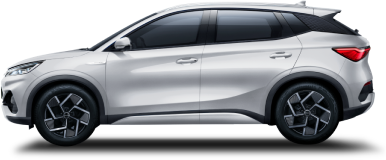
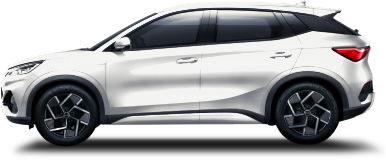
Selaraskan dengan situs resmi BYD Indonesia: warna Atto 3, varian, garansi & layanan, tautan brosur

diff --git a/index.html b/index.html
@@ -199,6 +199,16 @@ details .feats{margin:6px 20px 20px}
 }
 
 
+.ext{margin-top:14px;display:flex;flex-wrap:wrap;gap:6px 18px;font-size:13px}
+.ext a{color:var(--mut);text-decoration:underline;text-underline-offset:3px}.ext a:hover{color:var(--red2)}
+/* garansi */
+.gar{display:grid;grid-template-columns:repeat(auto-fit,minmax(min(100%,300px),1fr));gap:18px;margin-top:44px}
+.g{padding:28px;border-radius:20px;background:var(--card);border:1px solid var(--line);box-shadow:var(--sh)}
+.g b{display:block;font:700 clamp(28px,4vw,40px)/1 var(--head);color:var(--red2)}
+.g b small{display:block;margin:8px 0 0;font:600 14px var(--body);color:var(--fg)}
+.g h3{margin:14px 0 6px;font-size:17px}
+.g p{color:var(--mut);font-size:14.5px}
+.src{margin-top:22px;font-size:12.5px;color:var(--mut)}.src a{text-decoration:underline}
 /* faq */
 .faq{display:grid;gap:12px;margin-top:36px;max-width:860px}
 .faq details p{padding:16px 20px 20px;color:var(--mut);font-size:15px}
@@ -272,6 +282,7 @@ footer p+p{margin-top:8px;font-size:12px}
       <a href="#model">Model</a>
       <a href="#lineup">Semua Mobil</a>
       <a href="#why">Keunggulan</a>
+      <a href="#garansi">Garansi</a>
       <a href="#faq">FAQ</a>
       <a href="#kontak">Lokasi</a>
       <a class="btn btn-red" href="https://wa.me/6289611111183?text=Halo%20BYD%20Purwakarta%2C%20saya%20ingin%20test%20drive" target="_blank" rel="noopener">Test Drive</a>
@@ -350,11 +361,29 @@ footer p+p{margin-top:8px;font-size:12px}
     <span class="eyebrow rv">Teknologi BYD</span>
     <h2 class="rv">Kenapa memilih BYD</h2>
     <div class="why">
-      <article class="w rv"><div class="ic"><svg class="i" viewBox="0 0 24 24"><rect x="3" y="7" width="16" height="10" rx="2"/><path d="M21 11v2M9 10l-2 4h4l-2 4"/></svg></div><h3>Blade Battery</h3><p>Baterai LFP buatan sendiri yang dikenal aman, awet, dan efisien untuk pemakaian harian.</p></article>
+      <article class="w rv"><div class="ic"><svg class="i" viewBox="0 0 24 24"><rect x="3" y="7" width="16" height="10" rx="2"/><path d="M21 11v2M9 10l-2 4h4l-2 4"/></svg></div><h3>Blade Battery</h3><p>Baterai LFP buatan sendiri. Dalam uji tusuk paku, Blade Battery tidak mengeluarkan asap atau api (klaim BYD).</p></article>
       <article class="w rv" style="--d:.08s"><div class="ic"><svg class="i" viewBox="0 0 24 24"><path d="M13 2 4 14h7l-1 8 9-12h-7z"/></svg></div><h3>Performa Instan</h3><p>Torsi langsung terasa sejak pedal diinjak — hening, halus, dan responsif di setiap kecepatan.</p></article>
-      <article class="w rv" style="--d:.16s"><div class="ic"><svg class="i" viewBox="0 0 24 24"><path d="M12 3 4 6v6c0 5 3.5 8 8 9 4.5-1 8-4 8-9V6z"/><path d="m9 12 2 2 4-4"/></svg></div><h3>Aman &amp; Terjamin</h3><p>Dukungan garansi resmi serta layanan purna jual dari dealer BYD Purwakarta.</p></article>
+      <article class="w rv" style="--d:.16s"><div class="ic"><svg class="i" viewBox="0 0 24 24"><path d="M12 3 4 6v6c0 5 3.5 8 8 9 4.5-1 8-4 8-9V6z"/><path d="m9 12 2 2 4-4"/></svg></div><h3>Aman &amp; Terjamin</h3><p>Garansi baterai 8 tahun / 160.000 km, plus layanan purna jual dari dealer BYD Purwakarta.</p></article>
       <article class="w rv" style="--d:.24s"><div class="ic"><svg class="i" viewBox="0 0 24 24"><rect x="3" y="4" width="18" height="12" rx="2"/><path d="M8 20h8M12 16v4"/></svg></div><h3>Kabin Pintar</h3><p>Layar infotainment besar, konektivitas modern, dan fitur kenyamanan lengkap di tiap varian.</p></article>
     </div>
+  </div>
+</section>
+
+<!-- GARANSI -->
+<section id="garansi" class="lineup">
+  <div class="wrap">
+    <span class="eyebrow rv">Garansi &amp; Layanan</span>
+    <h2 class="rv">Tenang di setiap kilometer</h2>
+    <p class="lead rv">Perlindungan resmi dari BYD Indonesia untuk kendaraan, baterai, dan penggerak Anda.</p>
+    <div class="gar">
+      <article class="g rv"><b>6<small>tahun / 150.000 km</small></b><h3>Garansi Kendaraan</h3><p>Berlaku untuk semua tipe BYD.</p></article>
+      <article class="g rv" style="--d:.08s"><b>8<small>tahun / 160.000 km</small></b><h3>Garansi Baterai Traksi</h3><p>Atau SOH baterai ≥ 70%, mana yang tercapai lebih dulu.</p></article>
+      <article class="g rv" style="--d:.16s"><b>8<small>tahun / 160.000 km</small></b><h3>Garansi Drive Unit</h3><p>Untuk drive unit orisinal BYD.</p></article>
+      <article class="g rv" style="--d:.24s"><b>4<small>tahun / 60.000 km</small></b><h3>Free Maintenance</h3><p>Tidak berlaku untuk Atto 1 dan M6.</p></article>
+      <article class="g rv" style="--d:.32s"><b>24/7<small>Roadside Assistance</small></b><h3>Bantuan Darurat</h3><p>Derek ke dealer terdekat dalam radius 50 km. Hubungi 0800 168 6868 (bebas pulsa).</p></article>
+      <article class="g rv" style="--d:.4s"><b>1<small>tahun / 20.000 km</small></b><h3>Servis Berkala</h3><p>Pemeriksaan rutin sejak serah terima; perawatan pertama bulan ke-3 / 5.000 km untuk model tertentu.</p></article>
+    </div>
+    <p class="src rv">Sumber: <a href="https://www.byd.com/id/aftersales/warranty" target="_blank" rel="noopener">byd.com/id/aftersales/warranty</a>. Syarat: memakai suku cadang asli dan servis berkala di bengkel resmi BYD; kerusakan akibat kecelakaan, modifikasi, atau charger tidak resmi tidak dicakup. Rujuk Buku Garansi untuk ketentuan lengkap.</p>
   </div>
 </section>
 
@@ -364,7 +393,7 @@ footer p+p{margin-top:8px;font-size:12px}
     <span class="eyebrow rv">FAQ</span>
     <h2 class="rv">Pertanyaan yang sering diajukan</h2>
     <p class="lead rv">Ragu beralih dari mobil bensin ke mobil listrik? Ini jawaban atas keraguan yang paling sering kami dengar.</p>
-    <div class="faq"><details class="rv"><summary>Apakah mobil listrik benar-benar hemat dibanding mobil bensin?<svg class="i" viewBox="0 0 24 24"><path d="m6 9 6 6 6-6"/></svg></summary><p>Biaya energinya jauh lebih rendah per kilometer. Contoh perkiraan: mengisi penuh baterai 60 kWh di rumah dengan tarif listrik ± Rp1.500–1.700/kWh sekitar Rp90–100 ribuan untuk jarak tempuh ratusan kilometer. Perawatan juga lebih sederhana karena tidak ada oli mesin, busi, atau kopling. Angka riil tergantung tarif listrik, gaya berkendara, dan tempat mengisi daya.</p></details><details class="rv"><summary>Bagaimana kalau baterai habis di tengah jalan?<svg class="i" viewBox="0 0 24 24"><path d="m6 9 6 6 6-6"/></svg></summary><p>Mobil memberi peringatan bertahap saat baterai menipis dan menampilkan stasiun pengisian terdekat. Pada perjalanan jauh, rencanakan titik isi daya di rute (mis. SPKLU di jalur tol Trans Jawa dan Cipularang) lewat aplikasi PLN Mobile atau peta. Dengan jarak tempuh 300–650 km (NEDC) per model, pemakaian harian di Purwakarta dan sekitarnya umumnya cukup dengan isi daya di rumah.</p></details><details class="rv"><summary>Saya tidak punya garasi/colokan di rumah. Apakah tetap bisa?<svg class="i" viewBox="0 0 24 24"><path d="m6 9 6 6 6-6"/></svg></summary><p>Bisa, selama ada akses ke SPKLU di dekat rumah atau kantor. Pengisian di rumah tetap paling praktis: pasang wallbox atau gunakan kabel pengisi bawaan di stopkontak yang sesuai. Sales kami dapat membantu menjelaskan kebutuhan instalasi dan daya listrik sebelum Anda memutuskan.</p></details><details class="rv"><summary>Berapa lama waktu pengisian daya?<svg class="i" viewBox="0 0 24 24"><path d="m6 9 6 6 6-6"/></svg></summary><p>Pengisian AC di rumah memakan beberapa jam, cocok dilakukan semalaman. Pengisian cepat DC di SPKLU jauh lebih singkat; misalnya Seal diklaim mengisi 30–80% dalam ± 26 menit pada charger 150 kW. Waktu aktual tergantung daya charger, kapasitas baterai, dan suhu.</p></details><details class="rv"><summary>Seberapa awet dan aman baterainya?<svg class="i" viewBox="0 0 24 24"><path d="m6 9 6 6 6-6"/></svg></summary><p>BYD memakai Blade Battery berteknologi lithium iron phosphate (LFP) yang dikenal stabil dan tahan panas. Ketahanan dan cakupan garansi baterai berbeda tiap model dan dapat diperbarui; tanyakan syarat garansi resmi terbaru ke sales BYD Purwakarta.</p></details><details class="rv"><summary>Apakah mobil listrik aman saat banjir atau hujan deras?<svg class="i" viewBox="0 0 24 24"><path d="m6 9 6 6 6-6"/></svg></summary><p>Mobil listrik dirancang tahan air untuk pemakaian hujan dan cuci mobil normal. Meski begitu, hindari menerjang banjir yang dalam, sama seperti mobil bensin. Detail ketahanan air tiap model bisa Anda tanyakan saat test drive.</p></details><details class="rv"><summary>Bagaimana perawatan dan servisnya? Apakah bengkelnya mudah?<svg class="i" viewBox="0 0 24 24"><path d="m6 9 6 6 6-6"/></svg></summary><p>Servis berkala mobil listrik lebih sedikit komponen yang diganti dibanding mesin bensin, terutama tanpa oli mesin. Perawatan dilakukan di jaringan dealer resmi BYD. Hubungi tim kami untuk jadwal dan estimasi biaya servis berkala.</p></details><details class="rv"><summary>Berapa jarak tempuh sebenarnya? Apakah sesuai angka brosur?<svg class="i" viewBox="0 0 24 24"><path d="m6 9 6 6 6-6"/></svg></summary><p>Angka brosur memakai standar NEDC yang dilakukan dalam kondisi ideal. Di jalan nyata jarak biasanya lebih pendek dan dipengaruhi kecepatan, AC, beban, dan kontur jalan. Gunakan angka brosur sebagai pembanding antarmodel, dan coba langsung rute harian Anda saat test drive.</p></details><details class="rv"><summary>Kalau pindah dari mobil bensin, apakah ada yang berbeda saat berkendara?<svg class="i" viewBox="0 0 24 24"><path d="m6 9 6 6 6-6"/></svg></summary><p>Akselerasi lebih halus dan responsif, kabin jauh lebih senyap, dan tidak ada perpindahan gigi. Banyak pengemudi juga memakai pengereman regeneratif yang mengurangi pemakaian rem. Kebanyakan orang beradaptasi dalam beberapa hari; test drive adalah cara terbaik untuk merasakannya.</p></details><details class="rv"><summary>Apakah ada insentif atau keringanan pajak untuk mobil listrik?<svg class="i" viewBox="0 0 24 24"><path d="m6 9 6 6 6-6"/></svg></summary><p>Pemerintah pernah dan dapat memberikan insentif untuk kendaraan listrik, seperti keringanan pajak. Kebijakan ini berubah-ubah, jadi kami tidak mencantumkan angka di sini. Hubungi sales untuk info insentif dan harga yang berlaku saat ini.</p></details><details class="rv"><summary>Bagaimana dengan harga jual kembali (resale)?<svg class="i" viewBox="0 0 24 24"><path d="m6 9 6 6 6-6"/></svg></summary><p>Pasar mobil listrik bekas masih berkembang sehingga nilai jual kembali sulit dipastikan dan bergantung pada kondisi baterai, model, dan permintaan. Kami menyarankan membeli sesuai kebutuhan jangka panjang, dan menanyakan program yang tersedia ke sales.</p></details><details class="rv"><summary>Apakah bisa tukar tambah mobil bensin saya? Bisa kredit?<svg class="i" viewBox="0 0 24 24"><path d="m6 9 6 6 6-6"/></svg></summary><p>Silakan tanyakan program tukar tambah, simulasi cicilan, dan leasing langsung ke tim sales BYD Purwakarta lewat WhatsApp. Ketentuan dan promo dapat berubah sewaktu-waktu.</p></details></div>
+    <div class="faq"><details class="rv"><summary>Apakah mobil listrik benar-benar hemat dibanding mobil bensin?<svg class="i" viewBox="0 0 24 24"><path d="m6 9 6 6 6-6"/></svg></summary><p>Biaya energinya jauh lebih rendah per kilometer. Contoh perkiraan: mengisi penuh baterai 60 kWh di rumah dengan tarif listrik ± Rp1.500–1.700/kWh sekitar Rp90–100 ribuan untuk jarak tempuh ratusan kilometer. Perawatan juga lebih sederhana karena tidak ada oli mesin, busi, atau kopling. Angka riil tergantung tarif listrik, gaya berkendara, dan tempat mengisi daya.</p></details><details class="rv"><summary>Bagaimana kalau baterai habis di tengah jalan?<svg class="i" viewBox="0 0 24 24"><path d="m6 9 6 6 6-6"/></svg></summary><p>Mobil memberi peringatan bertahap saat baterai menipis dan menampilkan stasiun pengisian terdekat. Pada perjalanan jauh, rencanakan titik isi daya di rute (mis. SPKLU di jalur tol Trans Jawa dan Cipularang) lewat aplikasi PLN Mobile atau peta. Jika benar-benar kehabisan daya, BYD menyediakan Roadside Assistance 24/7 untuk menderek mobil ke dealer terdekat (radius 50 km dari dealer, 0800 168 6868). Dengan jarak tempuh 300–650 km (NEDC) per model, pemakaian harian di Purwakarta dan sekitarnya umumnya cukup dengan isi daya di rumah.</p></details><details class="rv"><summary>Saya tidak punya garasi/colokan di rumah. Apakah tetap bisa?<svg class="i" viewBox="0 0 24 24"><path d="m6 9 6 6 6-6"/></svg></summary><p>Bisa, selama ada akses ke SPKLU di dekat rumah atau kantor. Pengisian di rumah tetap paling praktis: pasang wallbox atau gunakan kabel pengisi bawaan di stopkontak yang sesuai. Sales kami dapat membantu menjelaskan kebutuhan instalasi dan daya listrik sebelum Anda memutuskan.</p></details><details class="rv"><summary>Berapa lama waktu pengisian daya?<svg class="i" viewBox="0 0 24 24"><path d="m6 9 6 6 6-6"/></svg></summary><p>Pengisian AC di rumah memakan beberapa jam, cocok dilakukan semalaman. Pengisian cepat DC di SPKLU jauh lebih singkat; misalnya Seal diklaim mengisi 30–80% dalam ± 26 menit pada charger 150 kW. Waktu aktual tergantung daya charger, kapasitas baterai, dan suhu.</p></details><details class="rv"><summary>Seberapa awet dan aman baterainya?<svg class="i" viewBox="0 0 24 24"><path d="m6 9 6 6 6-6"/></svg></summary><p>BYD memakai Blade Battery berteknologi lithium iron phosphate (LFP) yang dikenal stabil dan tahan panas. Dalam uji tusuk paku, Blade Battery tidak mengeluarkan asap atau api (klaim BYD). Semua tipe BYD mendapat garansi baterai traksi 8 tahun atau 160.000 km (mana yang tercapai lebih dulu) atau SOH ≥ 70%. Syarat lengkap ada di Buku Garansi; tanyakan ke sales untuk detailnya.</p></details><details class="rv"><summary>Apakah mobil listrik aman saat banjir atau hujan deras?<svg class="i" viewBox="0 0 24 24"><path d="m6 9 6 6 6-6"/></svg></summary><p>Mobil listrik dirancang tahan air untuk pemakaian hujan dan cuci mobil normal. Meski begitu, hindari menerjang banjir yang dalam, sama seperti mobil bensin. Detail ketahanan air tiap model bisa Anda tanyakan saat test drive.</p></details><details class="rv"><summary>Bagaimana perawatan dan servisnya? Apakah bengkelnya mudah?<svg class="i" viewBox="0 0 24 24"><path d="m6 9 6 6 6-6"/></svg></summary><p>Servis berkala mobil listrik lebih sedikit komponen yang diganti dibanding mesin bensin, terutama tanpa oli mesin. Servis berkala dilakukan setiap 1 tahun atau 20.000 km di dealer resmi BYD, dan sebagian model mendapat Free Maintenance 4 tahun / 60.000 km (tidak berlaku untuk Atto 1 dan M6). Hubungi tim kami untuk jadwal dan estimasi biaya.</p></details><details class="rv"><summary>Berapa jarak tempuh sebenarnya? Apakah sesuai angka brosur?<svg class="i" viewBox="0 0 24 24"><path d="m6 9 6 6 6-6"/></svg></summary><p>Angka brosur memakai standar NEDC yang dilakukan dalam kondisi ideal. Di jalan nyata jarak biasanya lebih pendek dan dipengaruhi kecepatan, AC, beban, dan kontur jalan. Gunakan angka brosur sebagai pembanding antarmodel, dan coba langsung rute harian Anda saat test drive.</p></details><details class="rv"><summary>Kalau pindah dari mobil bensin, apakah ada yang berbeda saat berkendara?<svg class="i" viewBox="0 0 24 24"><path d="m6 9 6 6 6-6"/></svg></summary><p>Akselerasi lebih halus dan responsif, kabin jauh lebih senyap, dan tidak ada perpindahan gigi. Banyak pengemudi juga memakai pengereman regeneratif yang mengurangi pemakaian rem. Kebanyakan orang beradaptasi dalam beberapa hari; test drive adalah cara terbaik untuk merasakannya.</p></details><details class="rv"><summary>Apakah ada insentif atau keringanan pajak untuk mobil listrik?<svg class="i" viewBox="0 0 24 24"><path d="m6 9 6 6 6-6"/></svg></summary><p>Pemerintah pernah dan dapat memberikan insentif untuk kendaraan listrik, seperti keringanan pajak. Kebijakan ini berubah-ubah, jadi kami tidak mencantumkan angka di sini. Hubungi sales untuk info insentif dan harga yang berlaku saat ini.</p></details><details class="rv"><summary>Bagaimana dengan harga jual kembali (resale)?<svg class="i" viewBox="0 0 24 24"><path d="m6 9 6 6 6-6"/></svg></summary><p>Pasar mobil listrik bekas masih berkembang sehingga nilai jual kembali sulit dipastikan dan bergantung pada kondisi baterai, model, dan permintaan. Kami menyarankan membeli sesuai kebutuhan jangka panjang, dan menanyakan program yang tersedia ke sales.</p></details><details class="rv"><summary>Apakah bisa tukar tambah mobil bensin saya? Bisa kredit?<svg class="i" viewBox="0 0 24 24"><path d="m6 9 6 6 6-6"/></svg></summary><p>Silakan tanyakan program tukar tambah, simulasi cicilan, dan leasing langsung ke tim sales BYD Purwakarta lewat WhatsApp. Ketentuan dan promo dapat berubah sewaktu-waktu.</p></details></div>
     <div class="cta rv" style="margin-top:32px"><a class="btn btn-red" href="https://wa.me/6289611111183?text=Halo%20BYD%20Purwakarta%2C%20saya%20ingin%20bertanya" target="_blank" rel="noopener">Masih ada pertanyaan? Chat Sales</a></div>
   </div>
 </section>
@@ -484,13 +513,14 @@ function render(anim){
   if(v.nm)sp.push(['Torsi',v.nm,'Nm',v.nm/700]);
   if(v.acc)sp.push(['0–100 km/j',String(v.acc).replace('.',','),'detik',1-(v.acc-3)/10]);
   sp.push(['Kapasitas',seat,'penumpang',seat/7]);
-  if(!v.bat)sp.unshift(['Penggerak','Plug-in Hybrid','DM-i',.8]);
+  if(!v.bat)sp.unshift(['Penggerak','Plug-in Hybrid','DM',.8]);
   $('#info').innerHTML=`<div class="${anim?'pop':''}">
     <h3>${cur.n}</h3><p class="tag">${cur.tag}</p>
     ${cur.v.length>1?`<div class="vars" role="group" aria-label="Varian">${cur.v.map((x,i)=>`<button class="var" aria-pressed="${i===vi}" data-i="${i}">${x.n}</button>`).join('')}</div>`:''}
     <div class="price"><small>Harga OTR${v.p?' mulai':''}</small><b>${rp(v.p)}</b></div>
     <div class="specs">${sp.map(s=>`<div class="sp"><small>${s[0]}</small><b>${s[1]}<i>${s[2]}</i></b><div class="bar"><span data-w="${Math.max(.08,Math.min(1,s[3]))*100}"></span></div></div>`).join('')}</div>
-    <a class="btn btn-red" target="_blank" rel="noopener" href="${wa(`Halo BYD Purwakarta, saya tertarik BYD ${cur.n} varian ${v.n}. Mohon info penawaran & test drive.`)}">Tanya BYD ${cur.n}</a></div>`;
+    <a class="btn btn-red" target="_blank" rel="noopener" href="${wa(`Halo BYD Purwakarta, saya tertarik BYD ${cur.n} varian ${v.n}. Mohon info penawaran & test drive.`)}">Tanya BYD ${cur.n}</a>
+    <p class="ext"><a href="https://www.byd.com/id/car/${cur.page}" target="_blank" rel="noopener">Halaman resmi BYD ↗</a>${cur.pdf?` <a href="https://www.byd.com/material/byd-site/id/${cur.pdf}" target="_blank" rel="noopener">Brosur resmi (PDF) ↗</a>`:''}</p></div>`;
   requestAnimationFrame(()=>requestAnimationFrame(()=>document.querySelectorAll('.bar span').forEach(e=>e.style.width=e.dataset.w+'%')));
 }
 function fullSpecs(){

diff --git a/models.js b/models.js
@@ -2,16 +2,16 @@
 // Sumber spesifikasi: brosur resmi BYD Indonesia (Seal, Sealion 7), halaman produk byd.com/id, dan media otomotif.
 // Baris yang tidak ada datanya sengaja dikosongkan; kelengkapan fitur dapat berbeda per varian.
 const M = [
- {id:'atto1',n:'Atto 1',type:'Hatchback',img:'atto1.jpg',seat:4,tag:'City car listrik lincah dengan layar putar dan harga paling terjangkau.',
+ {id:'atto1',page:'atto1',n:'Atto 1',type:'Hatchback',img:'atto1.jpg',seat:4,tag:'City car listrik lincah dengan layar putar dan harga paling terjangkau.',
   v:[{n:'Standard',p:199,bat:30.08,r:300,kw:55,nm:135},{n:'Dynamic',p:210,bat:30.08,r:300,kw:55,nm:135},{n:'Premium',p:245,bat:38.88,r:380,kw:55,nm:135}],
   g:[
    {t:'Performa & Baterai',rows:[['Penggerak','Roda depan (FWD)'],['Motor','Permanent Magnet Synchronous Motor (PMSM)'],['Daya maksimum','± 55 kW'],['Torsi maksimum','135 Nm'],['Akselerasi 0–50 km/j','4,9 detik'],['Baterai','BYD Blade Battery (LFP)'],['Kapasitas baterai',['30,08 kWh','30,08 kWh','38,88 kWh']],['Jarak tempuh (NEDC)',['300 km','300 km','380 km']],['Pengisian DC cepat',['–','30 kW','40 kW']],['Vehicle-to-Load (V2L)','Hingga 2,2 kW']]},
    {t:'Dimensi & Kapasitas',rows:[['Panjang × Lebar × Tinggi','3.925 × 1.720 × 1.590 mm'],['Wheelbase','2.500 mm'],['Ground clearance','155 mm'],['Bagasi','230 L (930 L jok dilipat)'],['Kapasitas penumpang','4 orang']]},
-   {t:'Eksterior',rows:[['Velg',['15" (kaleng)','16" alloy','16" alloy']],['Lampu depan','LED']],chips:['Spoiler belakang','Lampu belakang LED','Desain sporty']},
-   {t:'Interior & Kenyamanan',rows:[['Layar infotainment','10,1" putar'],['Panel instrumen',['–','–','Digital 7" (Premium)']],['Wireless charger','Ya']],chips:['Konsol dengan AC vent','Kabin kompak & lega']},
-   {t:'Keselamatan',rows:[],chips:['Blade Battery aman','Konstruksi bodi kokoh']}
+   {t:'Eksterior',rows:[['Velg',['15" (kaleng)','16" alloy','16" alloy']],['Lampu depan','LED "Double Slash" + automatic headlamp'],['Lampu rem tinggi','LED High Mounted Brake Light']],chips:['Spoiler belakang','Desain Ocean Aesthetics','Siluet belakang tegas']},
+   {t:'Interior & Kenyamanan',rows:[['Layar infotainment','10,1" putar'],['Panel instrumen',['–','–','Digital 7" (Premium)']],['Wireless charger','Ya (varian tertentu)'],['Konektivitas','Apple CarPlay & Android Auto'],['Jok','Kulit sintetis']],chips:['Konsol dengan AC vent','Kabin kompak & lega']},
+   {t:'Keselamatan',rows:[['Airbag',['Hubungi sales','4 airbag','6 airbag']]],chips:['Blade Battery aman','Struktur bodi e-Platform 3.0']}
   ]},
- {id:'dolphin',n:'Dolphin',type:'Hatchback',img:'dolphin.jpg',seat:5,tag:'Hatchback listrik serbaguna: desain muda, kabin lega, jarak tempuh nyaman.',
+ {id:'dolphin',page:'dolphin',pdf:'brochure/DOLPHIN-BROCHURE.pdf',n:'Dolphin',type:'Hatchback',img:'dolphin.jpg',seat:5,tag:'Hatchback listrik serbaguna: desain muda, kabin lega, jarak tempuh nyaman.',
   v:[{n:'Dynamic',p:369,bat:44.9,r:410,kw:70,nm:180,acc:12.3},{n:'Premium',p:429,bat:60.48,r:490,kw:150,nm:310,acc:7}],
   g:[
    {t:'Performa & Baterai',rows:[['Penggerak','Roda depan (FWD)'],['Motor','Permanent Magnet Synchronous Motor (PMSM)'],['Daya maksimum',['70 kW','150 kW (± 204 PS)']],['Torsi maksimum',['180 Nm','310 Nm']],['Akselerasi 0–100 km/j',['12,3 detik','± 7,0 detik']],['Baterai','BYD Blade Battery (LFP)'],['Kapasitas baterai',['44,9 kWh','60,48 kWh']],['Jarak tempuh (NEDC)',['410 km','490 km']]]},
@@ -20,43 +20,43 @@ const M = [
    {t:'Interior & Kenyamanan',rows:[['Layar infotainment','12,8" putar'],['Material kabin','Perpaduan jok & trim dua warna']],chips:['Armrest tengah','Kabin lega 5 penumpang','V2L']},
    {t:'Teknologi',rows:[['Platform','e-Platform 3.0'],['Baterai','Blade Battery – aman & awet']]}
   ]},
- {id:'atto3',n:'Atto 3',type:'SUV',img:'atto3.jpg',seat:5,tag:'SUV kompak listrik dengan kabin bergaya sporty dan kenyamanan sehari-hari.',
-  v:[{n:'Advanced',p:390,bat:49.92,r:410},{n:'Advanced Plus',p:415,bat:60.48,r:480,kw:150,nm:310,acc:7.3}],
+ {id:'atto3',page:'atto3',pdf:'brochure/ATTO3-BROCHURE.pdf',n:'Atto 3',type:'SUV',img:'atto3.jpg',seat:5,tag:'SUV kompak listrik dengan kabin bergaya sporty dan kenyamanan sehari-hari.',
+  v:[{n:'Advanced STD',p:390,bat:49.92,r:410},{n:'Superior',p:415,bat:60.48,r:480,kw:150,nm:310,acc:7.3}],
   g:[
-   {t:'Performa & Baterai',rows:[['Penggerak','Roda depan (FWD)'],['Daya maksimum',['Hubungi sales','150 kW (± 201 PS)']],['Torsi maksimum',['Hubungi sales','310 Nm']],['Akselerasi 0–100 km/j',['Hubungi sales','7,3 detik']],['Baterai','BYD Blade Battery (LFP)'],['Kapasitas baterai',['49,92 kWh','60,48 kWh']],['Jarak tempuh (NEDC)',['410 km','480 km']],['V2L / mobile power','Ya (VTOL)']]},
+   {t:'Performa & Baterai',rows:[['Penggerak','Roda depan (FWD)'],['Daya maksimum',['Hubungi sales','150 kW (± 201 PS)']],['Torsi maksimum',['Hubungi sales','310 Nm']],['Akselerasi 0–100 km/j',['Hubungi sales','7,3 detik']],['Baterai','BYD Blade Battery (LFP)'],['Kapasitas baterai',['49,92 kWh','60,48 kWh']],['Jarak tempuh (NEDC)',['410 km','480 km']],['V2L / mobile power','Ya (VTOL), hingga 3,3 kW']]},
    {t:'Dimensi & Kapasitas',rows:[['Panjang × Lebar × Tinggi','4.455 × 1.875 × 1.615 mm'],['Wheelbase','2.720 mm'],['Ground clearance','175 mm'],['Bagasi','± 440 L'],['Kapasitas penumpang','5 orang']]},
-   {t:'Eksterior',rows:[['Ukuran ban / velg',['R17','R18']]],chips:['Lampu depan LED','Panoramic roof','Desain sporty']},
-   {t:'Interior & Kenyamanan',rows:[['Layar infotainment','12,8" putar'],['Jok','Sport, kombinasi aksen biru'],['Wireless charger','Ya']],chips:['Speaker dengan desain unik','Kabin lega']},
-   {t:'Keselamatan',rows:[['Airbag','Advanced: 6 airbag · varian atas lebih lengkap']],chips:['Blade Battery','ADAS']}
+   {t:'Eksterior',rows:[['Ukuran ban / velg',['R17','R18']],['Lampu depan','LED kombinasi Crystal Dragon Feather'],['Atap','Panoramic double layer anti-pinch (Superior)']],chips:['Pegangan pintu gaya cengkeraman (Superior)','Desain Dragon Face','Dirancang tim Wolfgang Egger']},
+   {t:'Interior & Kenyamanan',rows:[['Layar infotainment','12,8" putar'],['Jok','Sport, kombinasi aksen biru'],['Wireless charger','Ya (Superior)']],chips:['Trim pintu bertema "gitar" (Superior)','Kabin lega','Bagasi 440 L + ruang tersembunyi']},
+   {t:'Keselamatan',rows:[['Airbag',['6 airbag','7 airbag']]],chips:['Blade Battery','ADAS']}
   ]},
- {id:'m6',n:'M6',type:'MPV',img:'m6.jpg',seat:7,tag:'MPV listrik keluarga: lapang, senyap, pilihan 7 atau 6 penumpang.',
+ {id:'m6',page:'m6',n:'M6',type:'MPV',img:'m6.jpg',seat:7,tag:'MPV listrik keluarga: lapang, senyap, pilihan 7 atau 6 penumpang.',
   v:[{n:'Standard',p:395,bat:55.4,r:420,kw:150,nm:310},{n:'Superior',p:423,bat:71.8,r:530,kw:150,nm:310},{n:'Superior Captain',p:445,bat:71.8,r:530,kw:150,nm:310,seat:6}],
   g:[
-   {t:'Performa & Baterai',rows:[['Penggerak','Roda depan (FWD)'],['Daya maksimum','± 150 kW (204 PS)'],['Torsi maksimum','310 Nm'],['Baterai','BYD Blade Battery (LFP)'],['Kapasitas baterai',['55,4 kWh','71,8 kWh','71,8 kWh']],['Jarak tempuh (NEDC)',['420 km','530 km','530 km']],['Pengisian AC','± 7 kW (7–8 jam)'],['Pengisian DC','± 30 menit (data sumber media)']]},
+   {t:'Performa & Baterai',rows:[['Penggerak','Roda depan (FWD)'],['Daya maksimum','± 150 kW (204 PS) – data media'],['Torsi maksimum','310 Nm'],['Baterai','BYD Blade Battery (LFP)'],['Kapasitas baterai',['55,4 kWh','71,8 kWh','71,8 kWh']],['Jarak tempuh (NEDC)',['420 km','530 km','530 km']],['Pengisian AC','± 7 kW (7–8 jam)'],['Pengisian DC puncak',['89 kW','115 kW','115 kW']],['Waktu isi 30→80%','± 30 menit']]},
    {t:'Dimensi & Kapasitas',rows:[['Panjang × Lebar × Tinggi','4.710 × 1.810 × 1.690 mm'],['Wheelbase','2.800 mm'],['Ground clearance','170 mm'],['Kapasitas penumpang',['7 orang','7 orang','6 orang (captain seat)']]]},
    {t:'Eksterior',rows:[['Lampu','LED']],chips:['Pilihan 4 warna','Velg alloy','Pintu bagasi lebar']},
    {t:'Interior & Kenyamanan',rows:[['Layar infotainment','12,8" putar'],['Interior','Hitam–cokelat']],chips:['Panoramic sunroof','Kabin keluarga lapang','Jok baris kedua nyaman','Banyak ruang penyimpanan']},
    {t:'Teknologi',rows:[['Baterai','Blade Battery – aman & awet']]}
   ]},
- {id:'m6dm',n:'M6 DM-i',type:'MPV',img:'m6dm.jpg',seat:7,tag:'MPV plug-in hybrid DM-i: bisa jalan listrik harian, tanpa cemas jarak jauh.',
-  v:[{n:'DM-i (mulai)',p:298}],
+ {id:'m6dm',page:'m6-dm',n:'M6 DM',type:'MPV',img:'m6dm.jpg',seat:7,tag:'MPV plug-in hybrid DM: bensin bisa, listrik bisa. Ikon baru keluarga Indonesia.',
+  v:[{n:'DM (mulai)',p:298}],
   g:[
-   {t:'Performa & Penggerak',rows:[['Teknologi','Plug-in Hybrid DM-i (Dual Mode)'],['Mesin','1.5 L bensin (1.498 cc)'],['Baterai','BYD Blade Battery (LFP)'],['Kapasitas baterai','7,4 kWh / 18,3 kWh (sesuai varian)'],['Jarak mode EV','± 40 km / ± 110 km'],['Konsumsi BBM','Hingga 65 km/L (klaim BYD, uji 150 km)']]},
+   {t:'Performa & Penggerak',rows:[['Teknologi','Plug-in Hybrid DM (Dual Mode)'],['Mesin','1.5 L bensin (1.498 cc)'],['Baterai','BYD Blade Battery (LFP)'],['Kapasitas baterai','7,4 kWh / 18,3 kWh (sesuai varian)'],['Jarak mode EV','± 40 km / ± 110 km'],['Konsumsi BBM','Hingga 65 km/L (klaim BYD, uji 150 km)']]},
    {t:'Dimensi & Kapasitas',rows:[['Panjang','4.710 mm'],['Kapasitas penumpang','7 orang (varian Captain Seat: 6)']]},
-   {t:'Interior & Kenyamanan',rows:[['Panel instrumen','Full LCD 10,25"'],['Layar infotainment','Layar besar di tengah dashboard']],chips:['Tuas transmisi elektronik','Jok kulit sintetis cokelat','Kabin lapang']},
+   {t:'Interior & Kenyamanan',rows:[['Panel instrumen','Full LCD 10,25"'],['Layar infotainment','Layar besar di tengah dashboard']],chips:['Electric column shifter','Panoramic glass roof','Cross Over Fender','Jok kulit sintetis cokelat']},
    {t:'Catatan',rows:[['Harga','Rp 298 jt – 390 jt tergantung varian'],['Data spesifikasi','Antar sumber media berbeda; konfirmasi detail ke sales']]}
   ]},
- {id:'seal',n:'Seal',type:'Sedan',img:'seal.jpg',seat:5,tag:'Sedan listrik performa tinggi dengan desain Ocean Aesthetics.',
+ {id:'seal',page:'seal',pdf:'brochure/SEAL-BROCHURE.pdf',n:'Seal',type:'Sedan',img:'seal.jpg',seat:5,tag:'Sedan listrik performa tinggi dengan desain Ocean Aesthetics.',
   v:[{n:'Premium Extended',p:639,bat:82.56,r:650,kw:230,nm:360,acc:5.9},{n:'Performance AWD',p:750,bat:82.56,r:580,kw:390,nm:670,acc:3.8}],
   g:[
    {t:'Performa & Baterai',rows:[['Penggerak',['Roda belakang (RWD)','All-wheel drive (AWD)']],['Motor',['Permanent Magnet Synchronous Motor','Depan induksi 160 kW/310 Nm + belakang PMSM 230 kW/360 Nm']],['Daya maksimum',['230 kW','390 kW']],['Torsi maksimum',['360 Nm','670 Nm']],['Akselerasi 0–100 km/j',['5,9 detik','3,8 detik']],['Baterai','BYD Blade Battery (LFP)'],['Kapasitas baterai','82,56 kWh'],['Jarak tempuh (NEDC)',['650 km','580 km']],['Pengisian','AC Type 2 7 kW · DC CCS2 hingga 150 kW (30→80% ± 26 menit)'],['V2L','Ya']]},
-   {t:'Dimensi & Kapasitas',rows:[['Panjang × Lebar × Tinggi','4.800 × 1.875 × 1.460 mm'],['Wheelbase','2.920 mm'],['Track depan / belakang','1.620 / 1.625 mm'],['Radius putar minimum','5,7 m'],['Bagasi','400 L + bagasi depan 50 L'],['Bobot kosong',['2.055 kg','2.185 kg']],['Kapasitas penumpang','5 orang']]},
+   {t:'Dimensi & Kapasitas',rows:[['Panjang × Lebar × Tinggi','4.800 × 1.875 × 1.460 mm'],['Wheelbase','2.920 mm'],['Track depan / belakang','1.620 / 1.625 mm'],['Radius putar minimum','5,7 m'],['Bagasi','400 L + bagasi depan ± 50 L'],['Bobot kosong',['2.055 kg','2.185 kg']],['Kapasitas penumpang','5 orang']]},
    {t:'Sasis & Roda',rows:[['Suspensi depan','Double wishbone'],['Suspensi belakang','Multi-link'],['Rem depan','Cakram ventilated & drilled'],['Rem belakang','Cakram ventilated'],['Velg & ban','Alloy 19" · 235/45 R19']]},
    {t:'Eksterior',rows:[['Atap','Panoramic glass roof'],['Gagang pintu','Elektrik tersembunyi'],['Pintu bagasi','One-touch elektrik'],['Kaca','Double glazed (kaca depan & pintu depan)']],chips:['Spion elektrik lipat & heated','Wiper rain sensing','Defogger kaca belakang']},
-   {t:'Interior & Kenyamanan',rows:[['Layar infotainment','15,6" putar'],['Panel instrumen','LCD 10,25"'],['Jok','Kulit asli'],['Jok pengemudi','8-way elektrik + lumbar 4-way + memori'],['Jok penumpang','6-way elektrik'],['Jok depan','Ventilated & heated']],chips:['Head-up display (W-HUD)','Ambient light','Armrest belakang + cup holder','Spion dalam anti silau otomatis']},
+   {t:'Interior & Kenyamanan',rows:[['Layar infotainment','15,6" putar'],['Panel instrumen','LCD 10,25"'],['Audio','Dynaudio Premium HiFi'],['Jok','Kulit asli'],['Jok pengemudi','8-way elektrik + lumbar 4-way + memori'],['Jok penumpang','6-way elektrik'],['Jok depan','Ventilated & heated']],chips:['Head-up display (W-HUD)','Ambient light','Armrest belakang + cup holder','Spion dalam anti silau otomatis']},
    {t:'Keselamatan & ADAS',rows:[['Kamera','360°'],['Sensor parkir','Depan 2 zona · belakang 4 zona'],['Child seat','ISOFIX']],chips:['Airbag depan, samping & tirai','Far-side airbag','Adaptive Cruise Control','Auto Emergency Braking','Blind Spot Detection','Door Open Warning','Rear Cross Traffic Alert/Brake','Lane Keeping Assist','Traffic Sign Recognition','Driver Attention Warning','iTAC (Performance)']}
   ]},
- {id:'sealion7',n:'Sealion 7',type:'SUV',img:'sealion7.jpg',seat:5,tag:'SUV coupé listrik: mewah, bertenaga, dan jarak tempuh jauh.',
+ {id:'sealion7',page:'sealion7',pdf:'product/sealion7/BROCHURE_SEALION7.pdf',n:'Sealion 7',type:'SUV',img:'sealion7.jpg',seat:5,tag:'SUV coupé listrik: mewah, bertenaga, dan jarak tempuh jauh.',
   v:[{n:'Premium',p:629,bat:82.56,r:567,kw:230,nm:380,acc:6.7},{n:'Performance AWD',p:719,bat:82.56,r:542,kw:390,nm:690,acc:4.5}],
   g:[
    {t:'Performa & Baterai',rows:[['Penggerak',['Roda belakang (RWD)','All-wheel drive (AWD)']],['Motor',['Permanent Magnet Synchronous Motor','Depan induksi 160 kW/310 Nm + belakang PMSM 230 kW/380 Nm']],['Daya maksimum',['230 kW','390 kW']],['Torsi maksimum',['380 Nm','690 Nm']],['Akselerasi 0–100 km/j',['6,7 detik','4,5 detik']],['Kecepatan maksimum',['–','215 km/j']],['Baterai','BYD Blade Battery (LFP)'],['Kapasitas baterai','82,56 kWh'],['Jarak tempuh (NEDC)',['567 km','542 km']],['Pengisian','AC Type 2 11 kW · DC CCS2 hingga 150 kW'],['V2L','Hingga 3,3 kW']]},

diff --git a/media.js b/media.js
@@ -407,24 +407,29 @@ const COLS={
 ],
 "atto3": [
 [
-"Perak",
-"#c9ccd2",
+"Ski White",
+"#f3f3f1",
 "c/atto3-1.png"
 ],
 [
-"Hitam",
+"Cosmos Black",
 "#1c1f24",
 "c/atto3-2.png"
 ],
 [
-"Biru",
-"#2a63c9",
+"Boulder Grey",
+"#7d8087",
 "c/atto3-3.png"
 ],
 [
-"Merah",
-"#b3202a",
+"Forest Green",
+"#2f5d45",
 "c/atto3-4.png"
+],
+[
+"Surf Blue",
+"#2a63c9",
+"c/atto3-5.png"
 ]
 ],
 "m6": [
@@ -478,12 +483,12 @@ const COLS={
 "c/sealion7-1.png"
 ],
 [
-"Hitam",
+"Cosmos Black",
 "#1c1f24",
 "c/sealion7-2.png"
 ],
 [
-"Putih",
+"Aurora White",
 "#f2f2f2",
 "c/sealion7-3.png"
 ],
